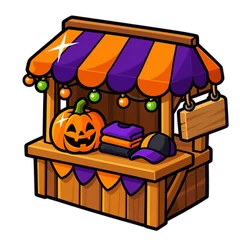
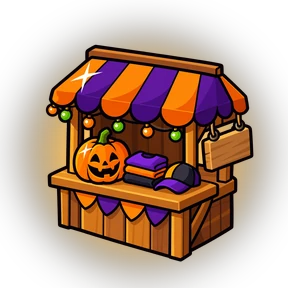
Panel round 3: undo never races its request, Remove waits for the lists, book art on the pill, away dialog on the server clock, sounds, baked stall glow
- Undo bar: the timer pauses while an undo is in flight (no hide mid-request), 10 s, no setState after unmount
- Remove title is disabled until the earned lists load, so Undo always knows the endpoint; quieter white link with an X, 44 pt
- Profile pill shows the book badge from the title's name (Churro Finder -> churro art), crown only as the last fallback
- Away dialog: headline says what is true now (Opens tonight / Closed for tonight / Event only), times read the fright server clock, lock icon
- Sounds with the haptics: pill, wear, remove, undo, stall tap (ui.tap / ui.confirm / fail)
- Stall glow baked into halloween-booth.webp (no live iOS shadow on a MarkerView); away swaps to halloween-booth-closed.webp by opacity

diff --git a/src/components/profile/TitleSheet.tsx b/src/components/profile/TitleSheet.tsx
@@ -15,14 +15,18 @@ import getPrepItemSets, { equipSetTitle } from '../../api/endpoints/me/prep-item
 import { equipStampTitle, getStamps } from '../../api/endpoints/me/stamps';
 import { BRAND, GameButton, GameDialog, GameIcon, GameText } from '../../ui';
 import { setBadge } from '../../screens/SetCollection/DexParts';
-import { describeTitle, earnedTitles, findEarned, type EarnedTitle } from './titleModel';
+import { describeTitle, earnedTitles, findEarned, titleBadgeSlug, type EarnedTitle } from './titleModel';
 
 const STAMP_SEAL = require('../../../assets/images/stamps/stamp-logo.png');
 
-/** The title's own art: the book's badge (the same art as its Collection Book tab), the stamp seal, else the crown. */
-function TitleArt({ entry, size }: { readonly entry: EarnedTitle | null; readonly size: number }) {
-  if (entry?.equip.kind === 'set') {
-    return <Image source={setBadge({ slug: entry.equip.slug, badgeUrl: entry.iconUrl })} style={{ width: size, height: size }} contentFit="contain" />;
+/**
+ * The title's own art: the book's badge (the same art as its Collection Book tab), the stamp seal for stamps,
+ * the crown only when neither is known. Without the lists (the profile pill) the book comes from the title's name.
+ */
+export function TitleArt({ entry, title, size }: { readonly entry: EarnedTitle | null; readonly title?: string | null; readonly size: number }) {
+  const slug = entry?.equip.kind === 'set' ? entry.equip.slug : entry ? null : titleBadgeSlug(title);
+  if (slug) {
+    return <Image source={setBadge({ slug, badgeUrl: entry?.iconUrl ?? null })} style={{ width: size, height: size }} contentFit="contain" />;
   }
   if (entry?.equip.kind === 'stamp') return <Image source={STAMP_SEAL} style={{ width: size, height: size }} contentFit="contain" />;
   return <GameIcon name="crown" size={size - 4} />;
@@ -75,6 +79,7 @@ export default function TitleSheet({ visible, title, onClose, onChanged, onRemov
     setBusy(key);
     setError(null);
     haptic('tapLight');
+    playSfx('ui.tap', 0.6);
     try {
       await run();
       await onChanged();
@@ -84,6 +89,7 @@ export default function TitleSheet({ visible, title, onClose, onChanged, onRemov
       after?.();
     } catch {
       haptic('warning');
+      playSfx('fail', 0.5);
       setError('That did not save. Try again.');
     } finally {
       setBusy(null);
@@ -92,8 +98,10 @@ export default function TitleSheet({ visible, title, onClose, onChanged, onRemov
 
   const wear = (entry: EarnedTitle) => save(entry.key, () => equipEarned(entry));
   // stamp_id null clears whatever title is worn (users.equipped_title), from a book or a stamp.
+  // Disabled until the lists load, so Undo always knows which endpoint wears the title again.
   const remove = () => {
-    const previous = findEarned(title, earned ?? []);
+    if (earned === null) return Promise.resolve();
+    const previous = findEarned(title, earned);
     return save('remove', () => equipStampTitle(null), () => onRemoved?.(previous));
   };
 
@@ -108,7 +116,7 @@ export default function TitleSheet({ visible, title, onClose, onChanged, onRemov
         <View style={styles.body}>
           {!!worn && (
             <View style={styles.pill} accessible accessibilityLabel={`Title: ${worn}`}>
-              <TitleArt entry={findEarned(worn, earned ?? [])} size={30} />
+              <TitleArt entry={findEarned(worn, earned ?? [])} title={worn} size={30} />
               <Text style={styles.pillText} numberOfLines={2} maxFontSizeMultiplier={1.3}>{worn}</Text>
             </View>
           )}
@@ -125,7 +133,8 @@ export default function TitleSheet({ visible, title, onClose, onChanged, onRemov
             {!!worn && (
               // Quiet on purpose: taking a title off is the rare choice, and the profile offers Undo.
               <Pressable accessibilityRole="button" accessibilityLabel="Remove title" accessibilityHint="Takes the title off your profile"
-                disabled={!!busy} hitSlop={8} onPress={() => { void remove(); }} style={({ pressed }) => [styles.remove, pressed && styles.rowPressed]}>
+                disabled={!!busy || earned === null} hitSlop={8} onPress={() => { void remove(); }} style={({ pressed }) => [styles.remove, earned === null && styles.removeOff, pressed && styles.rowPressed]}>
+                <GameIcon name="close" size={18} />
                 <Text style={styles.removeText} maxFontSizeMultiplier={1.3}>{busy === 'remove' ? 'Removing...' : 'Remove title'}</Text>
               </Pressable>
             )}
@@ -177,7 +186,7 @@ const styles = StyleSheet.create({
   copy: { color: '#e2f6ff' },
   hint: { color: '#bfe6ff' },
   error: { color: '#ffd6d6' },
-  actions: { alignSelf: 'stretch', gap: 6, marginTop: 4 },
+  actions: { alignSelf: 'stretch', gap: 2, marginTop: 4, marginBottom: -6 },
   list: { alignSelf: 'stretch', maxHeight: 300 },
   row: {
     flexDirection: 'row', alignItems: 'center', gap: 10, minHeight: 56, backgroundColor: '#fff8e4', borderRadius: 14,
@@ -192,7 +201,9 @@ const styles = StyleSheet.create({
   wear: { backgroundColor: '#ffcf3b', borderRadius: 14, borderWidth: 2, borderColor: '#ffffff', borderBottomWidth: 4,
     borderBottomColor: '#d99a00', paddingHorizontal: 12, paddingVertical: 5, minHeight: 32, justifyContent: 'center' },
   wearText: { fontFamily: 'Shark', fontSize: 15, color: BRAND.navy, letterSpacing: 0.5 },
-  remove: { alignSelf: 'center', paddingVertical: 8, paddingHorizontal: 12, minHeight: 44, justifyContent: 'center' },
-  removeText: { fontFamily: 'Knockout', fontSize: 17, color: '#ffd6d6', textDecorationLine: 'underline' },
+  remove: { alignSelf: 'center', flexDirection: 'row', alignItems: 'center', gap: 6, paddingHorizontal: 14, minHeight: 44,
+    minWidth: 160, justifyContent: 'center' },
+  removeOff: { opacity: 0.45 },
+  removeText: { fontFamily: 'Knockout', fontSize: 18, color: 'rgba(255,255,255,0.85)', textDecorationLine: 'underline' },
   rowMeaning: { color: BRAND.navy, fontFamily: 'Knockout', fontSize: 14, marginTop: 2 },
 });

diff --git a/src/components/map/fright/HalloweenStall.tsx b/src/components/map/fright/HalloweenStall.tsx
@@ -1,10 +1,10 @@
 /**
  * The Halloween Shop stall on the Fin-ister event map: the Halloween booth
  * (GPT Image 2.5 from Alex's references, art/map-icons/shop in the art kit)
- * with a warm lantern glow, a LIMITED tag, and a night-palette name chip
+ * with its warm lantern glow baked into the art (no live shadow on a map marker), a LIMITED tag, and a night-palette name chip
  * ("Halloween Shop" over tonight's real hours: "Open till 2 AM").
  * Away (not at the event or outside event hours) is a deliberate locked look:
- * the booth dims, a gold lock sits on it, the chip turns fog-grey and reads
+ * the solid booth without its glow, a small gold lock in its corner, the chip turns fog-grey and reads
  * "Opens at 6:30 PM" or "Only at Fin-ister Nights". Plain RN views in a FIXED
  * box (a MarkerView size change re-adds the iOS annotation): only text and
  * opacity change, the tree and the box never do. No Skia, no vector icons.
@@ -15,11 +15,13 @@ import { StyleSheet, Text, View } from 'react-native';
 import { GameIcon } from '../../../ui';
 import { NIGHT } from './frightArt';
 
-export const STALL_BOX = { w: 150, h: 132 } as const;
+export const STALL_BOX = { w: 150, h: 136 } as const;
 /** The booth's foot inside the box: the stall stands on its point. */
 export const STALL_ANCHOR = { x: 0.5, y: 0.58 } as const;
 const BOOTH = require('./art/halloween-booth.webp');
-const BOOTH_PT = 76;
+const BOOTH_CLOSED = require('./art/halloween-booth-closed.webp');
+/** Both arts are 288 px squares with the booth at the same spot, so swapping is opacity only. */
+const BOOTH_PT = 92;
 
 export const HalloweenStall = memo(function HalloweenStall({ name, line, tag, open }: {
   readonly name: string;
@@ -31,9 +33,11 @@ export const HalloweenStall = memo(function HalloweenStall({ name, line, tag, op
 }) {
   return (
     <View style={styles.box} pointerEvents="none">
-      <View style={[styles.glow, open ? null : styles.hidden]} />
-      <Image source={BOOTH} style={[styles.booth, open ? null : styles.boothAway]} contentFit="contain" cachePolicy="memory" />
-      <View style={[styles.lock, open ? styles.hidden : null]}><GameIcon name="lock" size={24} /></View>
+      <View style={styles.boothBox}>
+        <Image source={BOOTH} style={[styles.booth, open ? null : styles.hidden]} contentFit="contain" cachePolicy="memory" />
+        <Image source={BOOTH_CLOSED} style={[styles.booth, open ? styles.hidden : null]} contentFit="contain" cachePolicy="memory" />
+      </View>
+      <View style={[styles.lock, open ? styles.hidden : null]}><GameIcon name="lock" size={20} /></View>
       <View style={[styles.tag, open ? null : styles.tagAway]}><Text style={styles.tagText} maxFontSizeMultiplier={1}>{tag}</Text></View>
       <View style={[styles.chip, open ? null : styles.chipAway]}>
         <Text style={[styles.name, open ? null : styles.nameAway]} numberOfLines={1} adjustsFontSizeToFit minimumFontScale={0.8}
@@ -47,13 +51,9 @@ export const HalloweenStall = memo(function HalloweenStall({ name, line, tag, op
 
 const styles = StyleSheet.create({
   box: { width: STALL_BOX.w, height: STALL_BOX.h, alignItems: 'center' },
-  glow: {
-    position: 'absolute', top: 14, width: 64, height: 54, borderRadius: 32, backgroundColor: NIGHT.lantern, opacity: 0.35,
-    shadowColor: NIGHT.lantern, shadowOpacity: 1, shadowRadius: 16, shadowOffset: { width: 0, height: 0 },
-  },
-  booth: { width: BOOTH_PT, height: BOOTH_PT },
-  boothAway: { opacity: 0.55 },
-  lock: { position: 'absolute', top: 30, left: STALL_BOX.w / 2 - 12 },
+  boothBox: { width: BOOTH_PT, height: BOOTH_PT, marginTop: -8, marginBottom: -12 },
+  booth: { position: 'absolute', width: BOOTH_PT, height: BOOTH_PT },
+  lock: { position: 'absolute', top: 58, left: STALL_BOX.w / 2 + 18 },
   hidden: { opacity: 0 },
   tag: {
     position: 'absolute', top: 0, right: 14, backgroundColor: NIGHT.candy, borderRadius: 8, borderWidth: 2, borderColor: NIGHT.ink,

diff --git a/src/components/profile/TitleUndoBar.tsx b/src/components/profile/TitleUndoBar.tsx
@@ -3,13 +3,15 @@
  * with UNDO, for 6 seconds. Undo wears the same title again through the
  * server (the endpoint that owns it), then the profile refreshes.
  */
-import { useEffect, useState } from 'react';
+import { useEffect, useRef, useState } from 'react';
 import { Pressable, StyleSheet, Text, View } from 'react-native';
 import { haptic } from '../../gamekit/Haptics';
+import { playSfx } from '../../gamekit/SFX';
 import { BRAND } from '../../ui';
 import type { EarnedTitle } from './titleModel';
 
-export const UNDO_MS = 6000;
+/** Long enough for a kid to find the button (panel round 2). */
+export const UNDO_MS = 10_000;
 
 export default function TitleUndoBar({ previous, onUndo, onDone }: {
   /** The title that came off; no bar without one. */
@@ -20,12 +22,16 @@ export default function TitleUndoBar({ previous, onUndo, onDone }: {
 }) {
   const [busy, setBusy] = useState(false);
   const [failed, setFailed] = useState(false);
+  const mounted = useRef(true);
+  useEffect(() => () => { mounted.current = false; }, []);
+  useEffect(() => { setFailed(false); }, [previous]);
+  // The timer only runs while no undo is in flight: it can never hide the bar mid-request
+  // (which dropped the result and its error). After a failed undo it restarts in full.
   useEffect(() => {
-    if (!previous) return;
-    setFailed(false);
+    if (!previous || busy) return;
     const timer = setTimeout(onDone, UNDO_MS);
     return () => clearTimeout(timer);
-  }, [previous, onDone]);
+  }, [previous, onDone, busy]);
   if (!previous) return null;
   return (
     <View style={styles.row}>
@@ -36,17 +42,21 @@ export default function TitleUndoBar({ previous, onUndo, onDone }: {
         <Pressable accessibilityRole="button" accessibilityLabel={`Undo, wear ${previous.title} again`} disabled={busy} hitSlop={10}
           style={({ pressed }) => [styles.undo, pressed && { transform: [{ scale: 0.95 }] }]}
           onPress={async () => {
+            if (busy) return;
             setBusy(true);
             haptic('tapLight');
+            playSfx('ui.tap', 0.6);
             try {
               await onUndo(previous);
               haptic('success');
-              onDone();
+              playSfx('ui.confirm', 0.7);
+              if (mounted.current) onDone();
             } catch {
               haptic('warning');
-              setFailed(true);
+              playSfx('fail', 0.5);
+              if (mounted.current) setFailed(true);
             } finally {
-              setBusy(false);
+              if (mounted.current) setBusy(false);
             }
           }}>
           <Text style={styles.undoText} maxFontSizeMultiplier={1.2}>{busy ? '...' : 'UNDO'}</Text>

diff --git a/src/screens/ExploreScreen.tsx b/src/screens/ExploreScreen.tsx
@@ -110,7 +110,8 @@ import SignInButtons from '../components/SignInButtons';
 import { GameIcon, GameRichText, gameAlert } from '../ui';
 import type { FrightShopStall } from '../api/endpoints/fright/types';
 import { queueHaptic } from '../gamekit/Haptics';
-import { AWAY_LINE, HALLOWEEN_SHOP_NAME, awayMessage, stallAction } from '../components/fright/halloweenShop';
+import { playSfx } from '../gamekit/SFX';
+import { AWAY_LINE, awayHeadline, awayMessage, stallAction } from '../components/fright/halloweenShop';
 import { useHelp } from '../components/help/HelpProvider';
 import OneTimeTip from '../components/help/OneTimeTip';
 import HelpButton from '../components/help/HelpButton';
@@ -573,15 +574,21 @@ function ExploreScreen() {
     return () => clearInterval(timer);
   }, []);
   const frightNightWindow = frightNight.tonight?.night ?? null;
+  const frightServerNow = frightNight.now;
   const openHalloweenShop = useCallback((stall: FrightShopStall) => {
     if (stallAction(stall) === 'open') {
       queueHaptic('tapLight');
+      playSfx('ui.tap', 0.6);
       RootNavigation.navigate('Store', { store: stall.store_id });
     } else {
       queueHaptic('warning');
-      gameAlert(HALLOWEEN_SHOP_NAME, `${stall.away_line || AWAY_LINE}. ${awayMessage(stall.reason, frightNightWindow)}`, [{ text: 'Got it' }]);
+      playSfx('ui.select', 0.5);
+      // The server clock (R5), not the phone's: "opens at" vs "closed for tonight" must agree with the stall chip.
+      const now = frightServerNow();
+      gameAlert(awayHeadline(stall.reason, frightNightWindow, now), `${stall.away_line || AWAY_LINE}. ${awayMessage(stall.reason, frightNightWindow, now)}`,
+        [{ text: 'Got it' }], { icon: 'lock' });
     }
-  }, [frightNightWindow]);
+  }, [frightNightWindow, frightServerNow]);
   const frightMap = useMemo<FrightMapInput | null>(() => !stressOff && frightNight.tonight /* mounted for the whole event-park session: markers never churn (MapLibre insert crash); active/phase fade them */
     && frightNight.eventPark ? {
       tonight: frightNight.tonight, active: frightNight.modeOn, nowOffsetMs: frightNight.offset,

diff --git a/src/components/profile/TitlePill.tsx b/src/components/profile/TitlePill.tsx
@@ -9,18 +9,21 @@ import type { ReactNode } from 'react';
 import { Pressable, StyleSheet, Text, View } from 'react-native';
 import GameIcon from '../../ui/GameIcon';
 import { haptic } from '../../gamekit/Haptics';
+import { playSfx } from '../../gamekit/SFX';
 
-export default function TitlePill({ title, trophy, onPress }: {
+export default function TitlePill({ title, trophy, onPress, art }: {
   readonly title?: string | null;
   /** The single event trophy slot (renders nothing without data). */
   readonly trophy?: ReactNode;
   /** Your own profile only: opens the title sheet (what it means, change, remove). */
   readonly onPress?: () => void;
+  /** The title's own art (your profile: the book badge); the crown when absent. */
+  readonly art?: ReactNode;
 }) {
   if (!title && !trophy) return null;
   const label = (
     <>
-      <GameIcon name="crown" size={22} />
+      {art ?? <GameIcon name="crown" size={22} />}
       <Text style={styles.text} numberOfLines={1} adjustsFontSizeToFit minimumFontScale={0.75}
         maxFontSizeMultiplier={1.3}>
         {title}
@@ -31,7 +34,7 @@ export default function TitlePill({ title, trophy, onPress }: {
   return (
     <View style={styles.row}>
       {!!title && (onPress ? (
-        <Pressable style={({ pressed }) => [styles.pill, pressed && styles.pressed]} onPress={() => { haptic('tapLight'); onPress(); }} hitSlop={6}
+        <Pressable style={({ pressed }) => [styles.pill, pressed && styles.pressed]} onPress={() => { haptic('tapLight'); playSfx('ui.tap', 0.6); onPress(); }} hitSlop={6}
           accessibilityRole="button" accessibilityLabel={`Title: ${title}`} accessibilityHint="Shows what your title means and lets you change or remove it">
           {label}
         </Pressable>

diff --git a/src/components/fright/preview/FrightAppPreview.tsx b/src/components/fright/preview/FrightAppPreview.tsx
@@ -11,7 +11,7 @@ import { useSafeAreaInsets } from 'react-native-safe-area-context';
 import type { FrightRun, FrightSpot, FrightTonight } from '../../../api/endpoints/fright';
 import type { FrightShopStall } from '../../../api/endpoints/fright/types';
 import { gameAlert } from '../../../ui';
-import { AWAY_LINE, awayMessage } from '../halloweenShop';
+import { AWAY_LINE, awayHeadline, awayMessage } from '../halloweenShop';
 import type { RideControlPark } from '../../../api/endpoints/parks/rideControl';
 import Map from '../../Map';
 import RideControlBar from '../../RideControlBar';
@@ -124,8 +124,9 @@ export default function FrightAppPreview({ state }: { readonly state: AppPreview
   const mapInput: FrightMapInput = {
     tonight, active: true, nowOffsetMs: 0, player: PLAYER, spooky: true, doneKeys: [], quiet: engine.quiet,
     cinematic: null, onHauntPress: noop, tierCap: 'lite', ambience: false,
-    onShopPress: stall => gameAlert('Halloween Shop', stall.open ? 'DEV: opens the Halloween Shop (Store screen).'
-      : `${stall.away_line || AWAY_LINE}. ${awayMessage(stall.reason)}`, [{ text: 'Got it' }]),
+    onShopPress: stall => gameAlert(stall.open ? 'Halloween Shop' : awayHeadline(stall.reason, tonight.night, Date.now()),
+      stall.open ? 'DEV: opens the Halloween Shop (Store screen).'
+        : `${stall.away_line || AWAY_LINE}. ${awayMessage(stall.reason, tonight.night, Date.now())}`, [{ text: 'Got it' }], { icon: 'lock' }),
   };
 
   return (

diff --git a/src/screens/ProfileScreen.tsx b/src/screens/ProfileScreen.tsx
@@ -31,7 +31,7 @@ import { profileStores } from '../components/profile/profileStores';
 import { loadSecretShopFlag, secretShopFlagNow } from '../services/secretShopFlag';
 import StatusBadges from '../components/profile/StatusBadges';
 import TitlePill from '../components/profile/TitlePill';
-import TitleSheet, { equipEarned } from '../components/profile/TitleSheet';
+import TitleSheet, { TitleArt, equipEarned } from '../components/profile/TitleSheet';
 import TitleUndoBar from '../components/profile/TitleUndoBar';
 import type { EarnedTitle } from '../components/profile/titleModel';
 import ProfileEventChip from '../components/profile/ProfileEventChip';
@@ -513,7 +513,8 @@ export default function ProfileScreen() {
               }}
             >
               <View style={{ marginTop: 12 }}>
-                <TitlePill title={player.title} trophy={<ProfileEventChip />} onPress={() => setTitleSheet(true)} />
+                <TitlePill title={player.title} trophy={<ProfileEventChip />} onPress={() => setTitleSheet(true)}
+                  art={<TitleArt entry={null} title={player.title} size={28} />} />
                 {!player.title && (
                   <TitleUndoBar previous={undoTitle} onDone={clearUndo}
                     onUndo={async previous => { await equipEarned(previous); await refreshPlayer(); }} />

diff --git a/src/components/profile/titleModel.ts b/src/components/profile/titleModel.ts
@@ -131,3 +131,16 @@ export function findEarned(title: string | null | undefined, earned: readonly Ea
   const name = clean(title);
   return name ? earned.find(entry => entry.title === name) ?? null : null;
 }
+
+/** Books with bundled badge art (SetCollection/DexParts LEGACY_BADGES). */
+export const BADGE_BOOKS: readonly string[] = ['churro_collection', 'pretzel_collection', 'night_lights', 'rain_parade', 'camera_crew'];
+
+/**
+ * The book a title names, from the title alone (no network): "Churro Finder" and "Churro Connoisseur" are the
+ * Churro Collection, "Night Lights Finder" is Night Lights. Null when no bundled book matches (stamps, events).
+ */
+export function titleBadgeSlug(title: string | null | undefined): string | null {
+  const first = clean(title).split(/\s+/)[0]?.toLowerCase() ?? '';
+  if (first.length < 3) return null;
+  return BADGE_BOOKS.find(slug => slug.split('_')[0] === first) ?? null;
+}

diff --git a/src/components/fright/halloweenShop.ts b/src/components/fright/halloweenShop.ts
@@ -84,3 +84,13 @@ export function awayMessage(reason: string | null | undefined, night?: NightLike
   }
   return `Come to Fin-ister Nights at the park to shop.${hours}`;
 }
+
+/** The away dialog's ribbon headline (at most 22 characters, the ribbon limit): what is true right now. */
+export function awayHeadline(reason: string | null | undefined, night: NightLike, nowMs: number): string {
+  if (reason === 'off_season') return 'Closed for the season';
+  if (reason === 'not_event_hours') {
+    if (night?.closes_at && nowMs >= Date.parse(night.closes_at)) return 'Closed for tonight';
+    return 'Opens tonight';
+  }
+  return 'Event only';
+}
